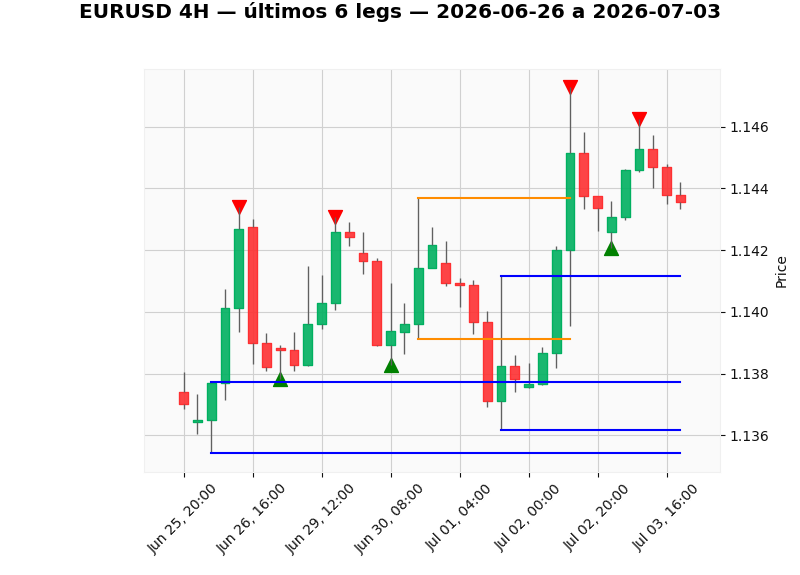
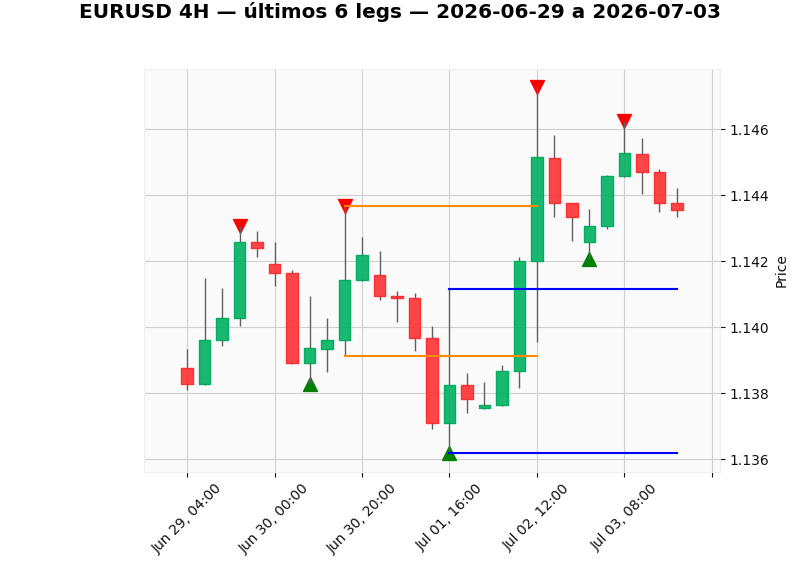
Fase 0: fix outside-bar bug, reverse-engineer swings against user's manual marks
User provided two reference charts (1H and 4H) showing exactly how they'd
mark the last 4 legs on EURUSD, plus the realization that they think in
4H terms even when looking at 1H ("estaba eliminando el ruido de 1H sin
darme cuenta").

Matched their 6 reference points against real OHLC data. Found a real bug:
a candle that is simultaneously a pivot high AND pivot low (wide-range bar)
was only captured once due to an if/elif, silently dropping whichever
extreme lost -- which was exactly the user's marked low in one case.
Fixed by emitting both events per bar (ordered by candle direction, since
we only have OHLC not tick data) and returning them via a new lossless
detect_structural_swings_list (the per-bar detect_structural_swings can't
represent two swings on the same index, so it's now a derived, lossy-only-
for-outside-bars view of the list).

Also tried extending this with the recursive break-confirmation rule from
the previous iteration, hoping it would filter the remaining extra pivots
that don't match the user's manual marks. It collapses structure to almost
nothing regardless of window (tested many start dates) -- discarded, not
the right mechanism. Documented in the module's history comment.

With the bug fix alone, running the simple pivot+merge detector directly
on 4H reproduces all 6 of the user's reference points, plus ~8 extra ones
they didn't mark -- still an open question for the next round.

diff --git a/src/trading_ai/structure/swings.py b/src/trading_ai/structure/swings.py
@@ -6,18 +6,24 @@ Historial de este módulo (ver docs/rule_decisions.md para el detalle):
 2. Confirmación por reversión de ATR — corregía la secuencia, pero el umbral
    de tamaño (ATR_MULT) es arbitrario y se comía swings reales que el
    usuario sí considera válidos.
-3. Esta versión: pivots locales (cada vela que es el extremo entre sus dos
-   vecinas inmediatas, sin excepción) fusionados hasta alternar. No hay
-   ningún parámetro de tamaño/umbral — solo la forma real del precio.
-
-Algoritmo:
-1. Un pivot high es una vela cuyo high es mayor que el de la vela anterior
-   y la siguiente (pivot low, simétrico con los lows). Esto captura
-   literalmente cada giro del precio, sin perderse ninguno.
-2. Se recorren los pivots en orden; cuando dos pivots del mismo tipo
-   aparecen seguidos sin un pivot del tipo opuesto de por medio, se
-   descarta el menos extremo y se conserva el otro. Se repite hasta que
-   la secuencia alterna perfectamente (high, low, high, low, ...).
+3. Confirmación por ruptura recursiva (romper el swing del mismo tipo
+   anterior) — colapsaba tendencias completas a 3-6 puntos en 3 años,
+   demasiado agresivo: el usuario esperaba varios legs por semana, no por
+   año.
+4. El usuario marcó manualmente 6 puntos de referencia en 1H y notó que
+   en realidad estaba percibiendo la estructura a nivel 4H sin darse
+   cuenta ("estaba eliminando el ruido de 1H"). Al aplicar el detector de
+   pivots simple (sin ruptura) directamente sobre velas 4H, casi
+   reproduce sus puntos exactos -- la escala correcta para "un swing
+   real" depende de la temporalidad de referencia, no de un umbral extra.
+5. Bug encontrado al validar contra sus datos: una vela puede ser pivot
+   high Y pivot low al mismo tiempo (vela de rango amplio). El código
+   anterior (`elif`) solo capturaba uno de los dos, perdiendo silenciosamente
+   el extremo descartado -- justo el low que el usuario había marcado.
+   Ahora se emiten ambos eventos, ordenados según si la vela cierra por
+   encima o por debajo de su apertura (vela alcista -> low antes que high;
+   vela bajista -> high antes que low), ya que solo tenemos OHLC, no datos
+   de tick.
 
 El resultado usa el mismo formato que `smartmoneyconcepts.smc.swing_highs_lows`
 (columnas HighLow: 1=swing high/-1=swing low, Level: precio) para poder
@@ -30,46 +36,94 @@ import numpy as np
 import pandas as pd
 
 
-def detect_structural_swings(df: pd.DataFrame) -> pd.DataFrame:
+def _raw_pivots(df: pd.DataFrame) -> list[tuple[int, int]]:
     highs = df["high"].to_numpy()
     lows = df["low"].to_numpy()
+    opens = df["open"].to_numpy()
+    closes = df["close"].to_numpy()
     n = len(df)
 
-    swing_type = np.full(n, np.nan)
-    swing_level = np.full(n, np.nan)
-
-    if n < 3:
-        return pd.DataFrame({"HighLow": swing_type, "Level": swing_level}, index=df.index)
-
-    # Paso 1: pivots locales crudos (cada extremo entre sus dos vecinas inmediatas).
-    merged_idx: list[int] = []
-    merged_type: list[int] = []
-
+    pivots: list[tuple[int, int]] = []
     for i in range(1, n - 1):
-        if highs[i] > highs[i - 1] and highs[i] > highs[i + 1]:
-            pivot_pos, pivot_type = i, 1
-        elif lows[i] < lows[i - 1] and lows[i] < lows[i + 1]:
-            pivot_pos, pivot_type = i, -1
-        else:
-            continue
+        is_high = highs[i] > highs[i - 1] and highs[i] > highs[i + 1]
+        is_low = lows[i] < lows[i - 1] and lows[i] < lows[i + 1]
+        if is_high and is_low:
+            # Vela de rango amplio: es pivot en ambos sentidos. Sin datos de
+            # tick, se asume el orden según la dirección de la vela.
+            if closes[i] >= opens[i]:
+                pivots.append((i, -1))
+                pivots.append((i, 1))
+            else:
+                pivots.append((i, 1))
+                pivots.append((i, -1))
+        elif is_high:
+            pivots.append((i, 1))
+        elif is_low:
+            pivots.append((i, -1))
+    return pivots
 
-        # Paso 2: fusiona con el pivot anterior si es del mismo tipo,
-        # quedándose con el más extremo, hasta que la secuencia alterne.
-        if merged_type and merged_type[-1] == pivot_type:
-            prev_pos = merged_idx[-1]
+
+def detect_structural_swings_list(df: pd.DataFrame) -> list[tuple[int, int, float]]:
+    """Devuelve cada swing confirmado como (posición, tipo, precio), sin pérdida.
+
+    A diferencia de `detect_structural_swings`, no reutiliza el índice de
+    `df` como clave -- así una vela que sea pivot high y low a la vez (rango
+    amplio) puede aportar dos swings distintos sin que uno pise al otro.
+    """
+    highs = df["high"].to_numpy()
+    lows = df["low"].to_numpy()
+
+    stack_pos: list[int] = []
+    stack_type: list[int] = []
+
+    if len(df) < 3:
+        return []
+
+    # Pivots locales crudos (incluyendo velas que son high y low a la vez),
+    # fusionados hasta alternar: cuando dos pivots seguidos son del mismo
+    # tipo, se conserva el más extremo y se descarta el otro.
+    for pivot_pos, pivot_type in _raw_pivots(df):
+        if stack_type and stack_type[-1] == pivot_type:
+            prev_pos = stack_pos[-1]
             is_more_extreme = (
                 highs[pivot_pos] > highs[prev_pos]
                 if pivot_type == 1
                 else lows[pivot_pos] < lows[prev_pos]
             )
             if is_more_extreme:
-                merged_idx[-1] = pivot_pos
-        else:
-            merged_idx.append(pivot_pos)
-            merged_type.append(pivot_type)
+                stack_pos[-1] = pivot_pos
+            continue
 
-    for pos, typ in zip(merged_idx, merged_type):
+        stack_pos.append(pivot_pos)
+        stack_type.append(pivot_type)
+
+        # Nota: se probó además una confirmación por ruptura recursiva (el
+        # nuevo pivot debe romper el swing del mismo tipo anterior a su
+        # retroceso, si no se descartan ambos). Colapsaba la estructura a
+        # muy pocos puntos en cualquier ventana probada (3-4 en varios
+        # meses de 4H) -- no reproduce lo que el usuario marcó a mano. Se
+        # descartó; ver docs/rule_decisions.md.
+
+    return [
+        (pos, typ, highs[pos] if typ == 1 else lows[pos])
+        for pos, typ in zip(stack_pos, stack_type)
+    ]
+
+
+def detect_structural_swings(df: pd.DataFrame) -> pd.DataFrame:
+    """Versión por-vela (compatible con `smc.ob`) de `detect_structural_swings_list`.
+
+    Limitación conocida: si una vela produce dos swings (high y low a la
+    vez), esta representación solo puede guardar uno por posición -- se
+    queda con el último de los dos. Para la lista completa sin pérdida usar
+    `detect_structural_swings_list`.
+    """
+    n = len(df)
+    swing_type = np.full(n, np.nan)
+    swing_level = np.full(n, np.nan)
+
+    for pos, typ, price in detect_structural_swings_list(df):
         swing_type[pos] = typ
-        swing_level[pos] = highs[pos] if typ == 1 else lows[pos]
+        swing_level[pos] = price
 
     return pd.DataFrame({"HighLow": swing_type, "Level": swing_level}, index=df.index)
